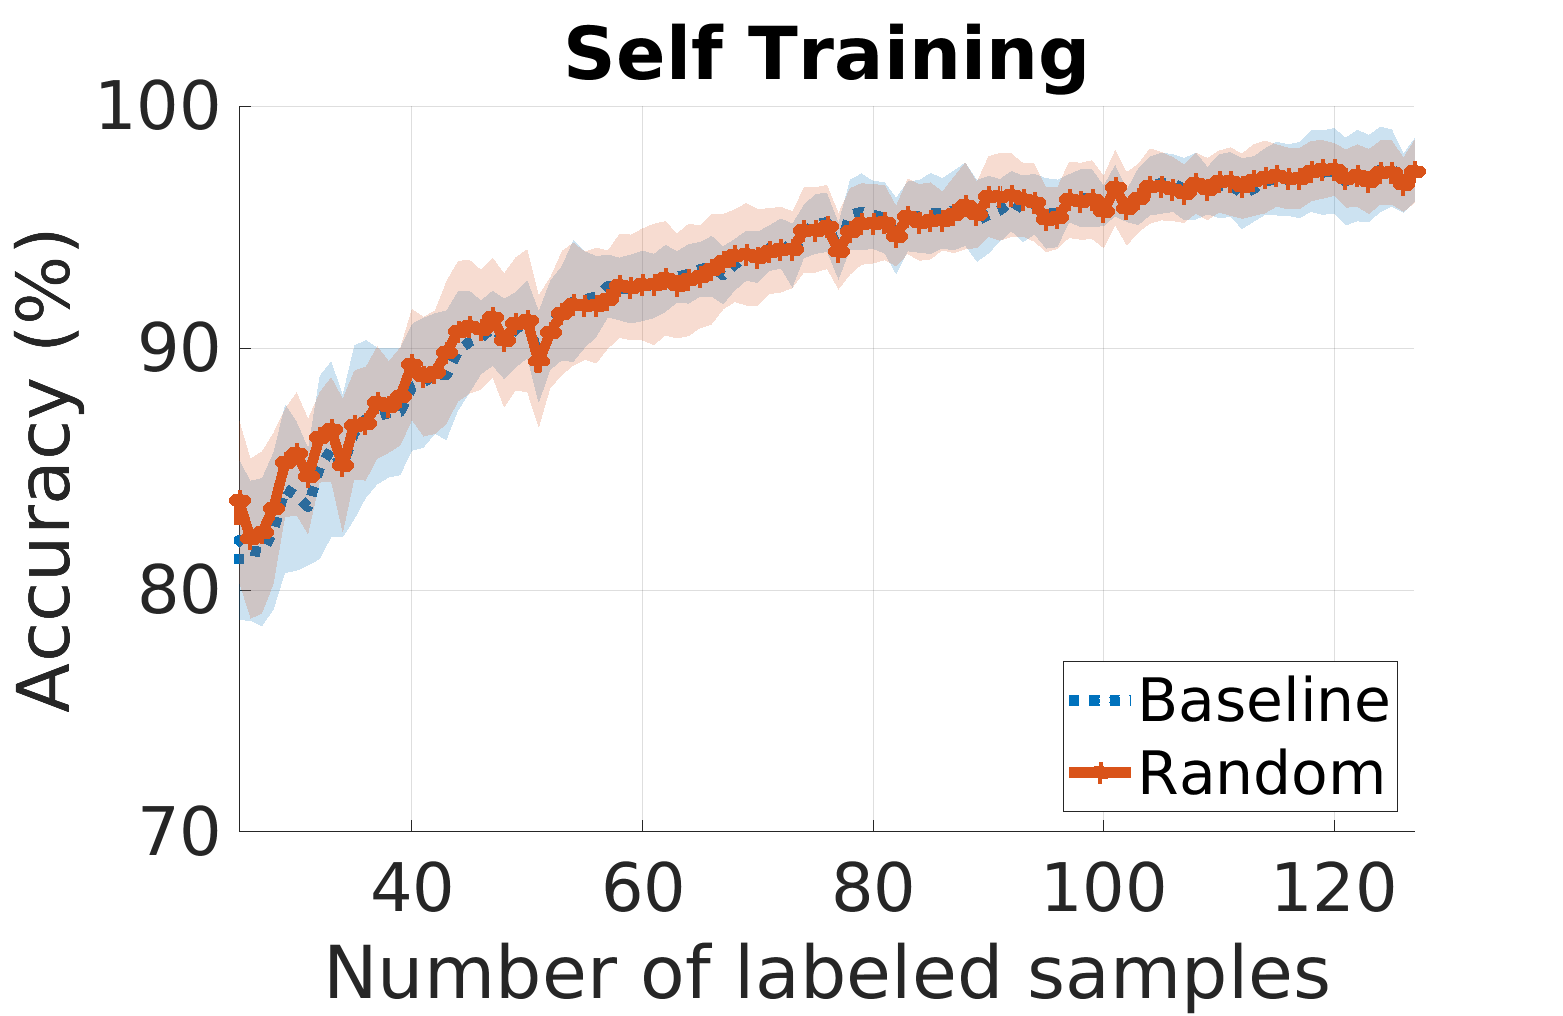
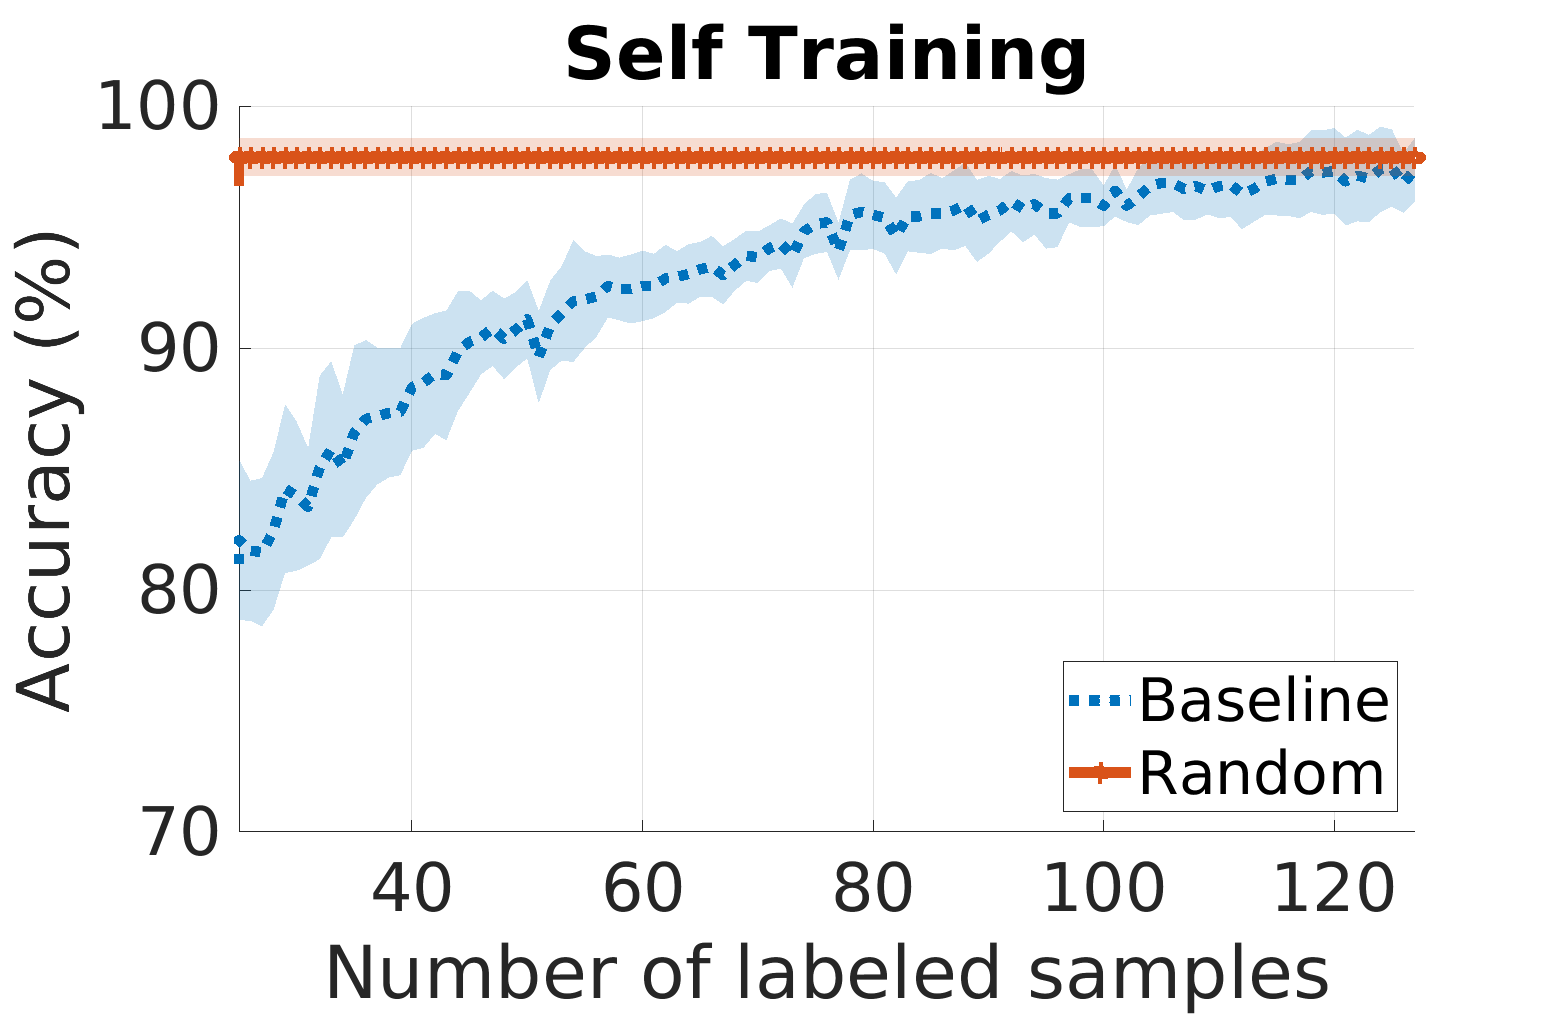
EEM multi self train correct

Changed region(s): [[0.1228, 0.122, 0.9213, 0.6102]]

diff --git a/Python/label_spreading_eem_multi.py b/Python/label_spreading_eem_multi.py
@@ -3,14 +3,17 @@ import pandas as pd
 from sklearn import preprocessing
 from sklearn.model_selection import KFold
 from sklearn.metrics import confusion_matrix
+from sklearn.semi_supervised import LabelSpreading
 import optuna
 from numpy import savetxt
 import pickle
 import os
+from sklearn.linear_model import LogisticRegression
 
 import argparse
 from argparse import RawTextHelpFormatter
-from sklearn.linear_model import LogisticRegression
+
+import lightgbm as lgb
 
 from copy import deepcopy
 
@@ -20,14 +23,11 @@ from Query_Strategy import query_index
 
 # ------ Configurations ------
 
-# self_train
+# label_spreading
 
 
 # take in as arguments
 # query_strategy = "random"
-
-# do not change
-# n_sample_arr = list(range(3, 91))
 
 # number of runs for each reduced number of samples
 n_run = 10
@@ -46,10 +46,10 @@ path_to_param = "Hyper_Parameter/params_eem_multi.pkl"
 # np.random.seed(123)
 optuna.logging.set_verbosity(optuna.logging.FATAL)
 
-help_message = "Self Training. " \
+help_message = "Label Spreading. " \
     "Supported Methods:\n" \
-    "Self Training: [random|confident|entropy]"
-parser = argparse.ArgumentParser(description="Active Learning Strategies", formatter_class=RawTextHelpFormatter)
+    "Kernel: [knn|rbf]"
+parser = argparse.ArgumentParser(description="Semi-supervised Learning Strategies", formatter_class=RawTextHelpFormatter)
 parser.add_argument("sampling_method", type=str, help=help_message)
 args = parser.parse_args()
 
@@ -106,6 +106,7 @@ target_cf = le.fit_transform(target_all)
 
 num_class = len(set(target_cf))
 
+
 # Load Hyper-parameters
 with open(path_to_param, "rb") as f:
     hyper_params = pickle.load(f)
@@ -132,41 +133,19 @@ def run_cv(train_set, target):
 
             print("\t #fold: {}/{}, #sample: {}/{}".format(fold_+1, n_fold, len(queried_index_set), end_n_sample))
 
-            # incrementally select data instances
-            queried_index_set_copy = deepcopy(queried_index_set)
-            unqueried_index_set_copy = deepcopy(unqueried_index_set)
             target_copy = deepcopy(target)
+            target_copy[list(unqueried_index_set)] = -1
 
-            while len(unqueried_index_set_copy) > 0 and len(queried_index_set_copy) <= end_n_sample:
+            label_prop_model = LabelSpreading(kernel=query_strategy, gamma=0.1)
+            label_prop_model.fit(train_set.iloc[train_idx], target_copy[train_idx])
+            pred_label = label_prop_model.predict(train_set)
 
-                train_data = train_set.iloc[list(queried_index_set_copy)]
-                train_label = target[list(queried_index_set_copy)]
-
-                val_data = train_set.iloc[val_idx]
-                val_label = target[val_idx]
-
-                model = LogisticRegression(solver='newton-cg', multi_class='multinomial',
-                                           C=hyper_params[len(queried_index_set)])
-                model.fit(train_data, train_label)
-
-                sample_index = query_index(model=model, train_set=train_set,
-                                           queried_index_set=queried_index_set_copy,
-                                           unqueried_index_set=unqueried_index_set_copy,
-                                           query_strategy="selfTrain_" + query_strategy, target=target_copy,
-                                           val_idx=val_idx, hyper_params=hyper_params)
-
-                target_copy[sample_index] = np.argmax(np.squeeze(model.predict_proba([train_set.iloc[sample_index]])))
-
-                unqueried_index_set_copy.remove(sample_index)
-                queried_index_set_copy.add(sample_index)
+            pred_label[val_idx] = target[val_idx]
+            pred_label[list(queried_index_set)] = target[list(queried_index_set)]
 
             # model evaluation
-
-            train_data = train_set.iloc[list(queried_index_set_copy)]
-            train_label = target_copy[list(queried_index_set_copy)]
-
-            val_data = train_set.iloc[val_idx]
-            val_label = target[val_idx]
+            train_data = train_set.iloc[train_idx]
+            train_label = pred_label[train_idx]
 
             model = LogisticRegression(solver='newton-cg', multi_class='multinomial',
                                        C=hyper_params[end_n_sample])
@@ -197,8 +176,8 @@ print(result_pred)
 
 # do not want dot in filenames
 query_strategy = query_strategy.replace('.', '')
-print("Saving result to ./Result/selfTrain_{}_eem_multi.csv".format(query_strategy))
-savetxt("./Result/selfTrain_{}_eem_multi.csv".format(query_strategy), result_pred, delimiter=',')
+print("Saving result to ./Result/labelSpread_{}_eem_multi.csv".format(query_strategy))
+savetxt("./Result/labelSpread_{}_eem_multi.csv".format(query_strategy), result_pred, delimiter=',')
 
 
 

diff --git a/Matlab/label_spread_eem_multi.m b/Matlab/label_spread_eem_multi.m
@@ -1,0 +1,70 @@
+% compare
+
+clear, clc
+
+my_line_style = {':', '-', '-', '-.', '-'};
+my_marker = {'none', 'o', '+', 'none', '^'};
+line_spec = {':', 'o-', '+-', '-.', '^-'};
+
+% al = Active Learning
+
+al_strategies = struct( ...
+    'random_eem_multi', 'Baseline', ...
+    'labelSpread_rbf_eem_multi', 'Kernel = RBF', ...
+    'labelSpread_knn_eem_multi', 'Kernel = KNN');
+
+% al_strategies = struct( ...
+%     'random_eem', 'Baseline', ...
+%     'labelSpread_rbf_eem', 'Kernel = RBF', ...
+%     'labelSpread_knn_eem_multi', 'Kernel = KNN');
+
+
+data_file_prefix = '../Python/Result/';
+data_file_suffix = '.csv';
+
+
+fields = fieldnames(al_strategies);
+
+my_legend = {};
+all_data = [];
+all_std = [];
+
+figure(1), clf, hold on
+set(gcf, 'position', [500, 500, 1000, 650])
+
+x = 11:90;
+
+cMap = lines(length(fields));
+
+for k = 1:numel(fields)
+    
+    filename = fullfile(data_file_prefix, strcat(fields{k}, data_file_suffix));
+    data = 100 * readmatrix(filename);
+    
+    aline(k) = stdshade(data, 0.2, cMap(k, :));
+    aline(k).LineStyle = my_line_style{k};
+    aline(k).Marker = my_marker{k};
+    aline(k).LineWidth = 5;
+
+    mean_data = mean(data);
+    
+    all_data = [all_data; mean_data];
+    all_std = [all_std; std(data)];
+    my_legend = [my_legend, al_strategies.(fields{k})];
+     
+end
+
+hleg = legend(aline, my_legend, 'location', 'southeast');
+% set(hleg, 'box', 'off')
+
+set(gca, 'fontsize', 32, 'ygrid', 'on', 'xgrid', 'on')
+xlim([25, 127])
+ylim([60, 100])
+xlabel('Number of labeled samples')
+ylabel('Accuracy (%)')
+% xticks(10:10:90)
+yticks(20:10:100)
+title('Label Spreading')
+hold off
+
+saveas(gcf, './Image/label_spread_eem_multi.png')

diff --git a/Python/self_train.py b/Python/self_train.py
@@ -157,8 +157,8 @@ def run_cv(train_set, target):
                                      label=target_copy[list(queried_index_set_copy)])
             valid_data = lgb.Dataset(train_set.iloc[val_idx], label=target_copy[val_idx])
 
-            # !!! model = lgb.train(hyper_params[end_n_sample], train_data, valid_sets=[valid_data], verbose_eval=False)
-            model = lgb.train(hyper_params[len(queried_index_set)], train_data, valid_sets=[valid_data], verbose_eval=False)
+            model = lgb.train(hyper_params[end_n_sample], train_data, valid_sets=[valid_data], verbose_eval=False)
+            # model = lgb.train(hyper_params[len(queried_index_set)], train_data, valid_sets=[valid_data], verbose_eval=False)
 
 
             preds[len(queried_index_set) - 1, val_idx, :] = model.predict(train_set.iloc[val_idx])
